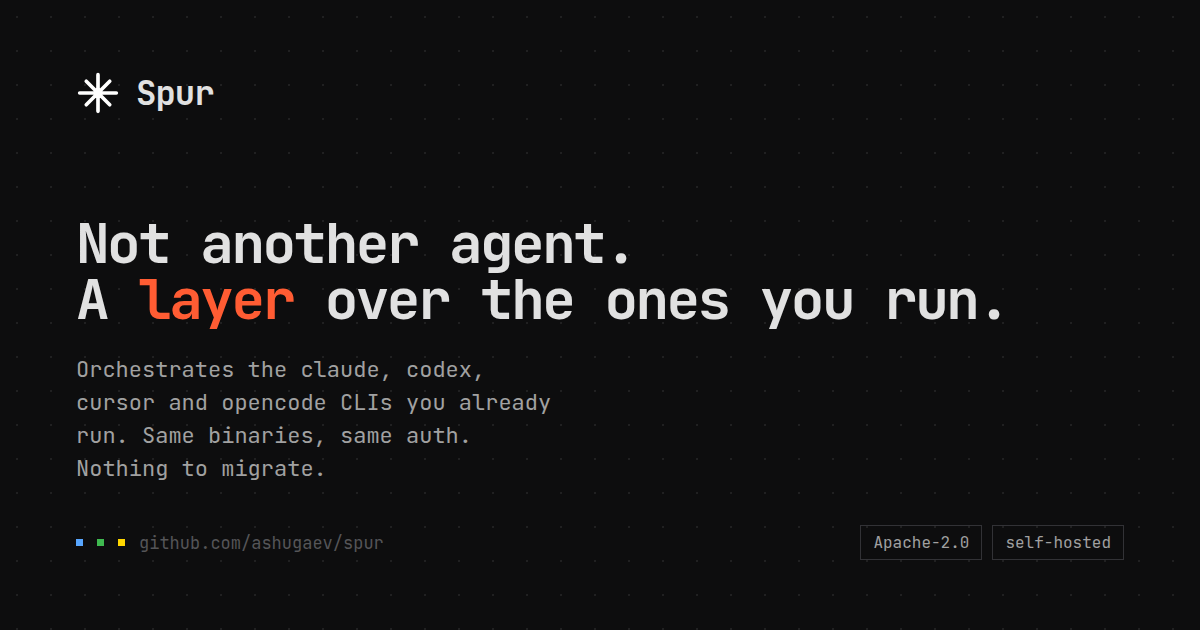
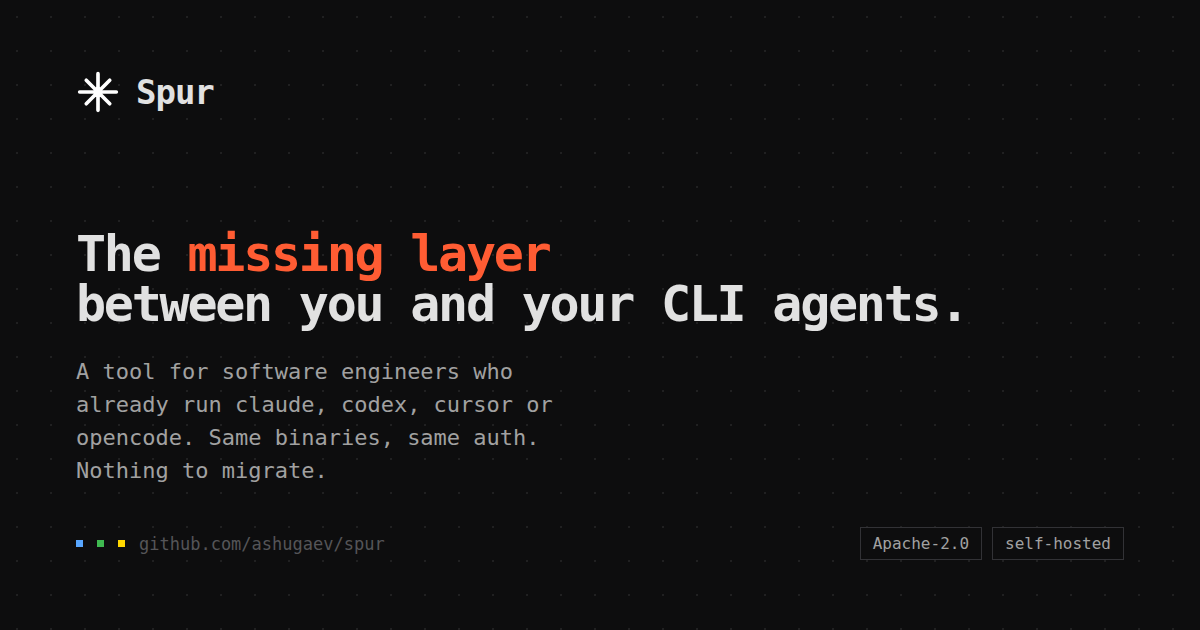
feat(landing): headline, tighter copy, prominent install prompt
Headline becomes 'The missing layer between you and your CLI agents',
with the audience named in the lede's first sentence rather than the h1.

Copy pass against a word budget: lede 40 to 23 words, section captions
to 13-17, cards to 12-21, and one FAQ answer trimmed with its JSON-LD
kept in sync.

Install prompt block rebuilt: larger mono, white on the terminal
surface, the URL in the brand colour, and a filled brand Copy prompt
button with an icon instead of the outlined chip nobody would notice.
The copy handler now writes into a label span so the icon survives the
copied state.

diff --git a/landing/index.html b/landing/index.html
@@ -4,10 +4,10 @@
     <meta charset="utf-8" />
     <meta name="viewport" content="width=device-width, initial-scale=1, viewport-fit=cover" />
     <meta name="color-scheme" content="dark" />
-    <title>Spur — orchestrator for the CLI coding agents you already run</title>
+    <title>Spur — the missing layer between you and your CLI agents</title>
     <meta
       name="description"
-      content="Open-source local daemon that orchestrates the claude, codex, cursor and opencode CLIs you already run. Same binaries, same auth. Adds a git worktree per agent, event triggers and one dashboard. Nothing to migrate."
+      content="A tool for software engineers who already run claude, codex, cursor or opencode. Spur launches the same binaries, then adds a git worktree per agent, event triggers and one dashboard you reach from any device. Nothing to migrate."
     />
     <link rel="canonical" href="https://spur.dev/" />
     <meta name="theme-color" content="#0d0d0e" />
@@ -16,10 +16,10 @@
     <meta property="og:type" content="website" />
     <meta property="og:site_name" content="Spur" />
     <meta property="og:locale" content="en_US" />
-    <meta property="og:title" content="Spur — not another agent, a layer over the ones you run" />
+    <meta property="og:title" content="Spur — the missing layer between you and your CLI agents" />
     <meta
       property="og:description"
-      content="Local daemon that orchestrates the claude, codex, cursor and opencode CLIs you already run. Same binaries, same auth, a git worktree per agent, one dashboard. Nothing to migrate."
+      content="A tool for software engineers who already run claude, codex, cursor or opencode. Same binaries, same auth, a git worktree per agent, one dashboard. Nothing to migrate."
     />
     <meta property="og:url" content="https://spur.dev/" />
     <meta property="og:image" content="https://spur.dev/og.png" />
@@ -27,13 +27,13 @@
     <meta property="og:image:height" content="630" />
     <meta
       property="og:image:alt"
-      content="Spur — not another agent, a layer over the ones you run"
+      content="Spur — the missing layer between you and your CLI agents"
     />
     <meta name="twitter:card" content="summary_large_image" />
-    <meta name="twitter:title" content="Spur — not another agent, a layer over the ones you run" />
+    <meta name="twitter:title" content="Spur — the missing layer between you and your CLI agents" />
     <meta
       name="twitter:description"
-      content="Local daemon that orchestrates the claude, codex, cursor and opencode CLIs you already run. Same binaries, same auth. Nothing to migrate."
+      content="A tool for software engineers who already run claude, codex, cursor or opencode. Same binaries, same auth. Nothing to migrate."
     />
     <meta name="twitter:image" content="https://spur.dev/og.png" />
 
@@ -115,7 +115,7 @@
                 "name": "Do I have to change how I use my agents?",
                 "acceptedAnswer": {
                   "@type": "Answer",
-                  "text": "No. Spur launches the same binary with your auth and your model config, in a real tmux pane. Anything the agent does in your terminal it does here. Stop the daemon and you are left with ordinary git worktrees."
+                  "text": "No. Same binary, your auth, your model config, in a real tmux pane. Stop the daemon and you are left with ordinary git worktrees."
                 }
               },
               {
@@ -546,18 +546,17 @@
 
       .cmd {
         margin-top: clamp(40px, 6vh, 68px);
-        position: relative;
         display: grid;
-        gap: 18px;
+        gap: 22px;
         border: 1px solid var(--b-strong);
-        border-left: 3px solid var(--brand);
+        border-left: 4px solid var(--brand);
         background: var(--term);
-        padding: 22px 24px;
+        padding: clamp(24px, 3vw, 34px);
       }
-      @media (min-width: 860px) {
+      @media (min-width: 900px) {
         .cmd {
-          grid-template-columns: 190px minmax(0, 1fr);
-          gap: 32px;
+          grid-template-columns: 220px minmax(0, 1fr);
+          gap: 40px;
           align-items: start;
         }
       }
@@ -568,38 +567,49 @@
         text-transform: uppercase;
         line-height: 1.9;
         color: var(--brand);
+        margin-bottom: 18px;
       }
       .cmd code {
         display: block;
         background: none;
-        padding: 0 66px 0 0;
-        color: var(--t1);
-        font-size: 12.5px;
-        line-height: 1.8;
+        padding: 0;
+        color: var(--t0);
+        font-size: clamp(14px, 1.2vw, 15.5px);
+        line-height: 1.85;
         overflow-wrap: break-word;
       }
+      .cmd code .u {
+        color: var(--brand);
+        overflow-wrap: anywhere;
+      }
       .copy {
-        position: absolute;
-        top: 12px;
-        right: 12px;
-        border: 1px solid var(--b);
-        background: var(--term);
-        color: var(--t2);
+        display: inline-flex;
+        align-items: center;
+        gap: 9px;
+        border: 1px solid var(--brand);
+        background: var(--brand);
+        color: #0d0d0e;
         font: inherit;
-        font-size: 10.5px;
-        letter-spacing: 0.14em;
+        font-size: 12px;
+        font-weight: 700;
+        letter-spacing: 0.12em;
         text-transform: uppercase;
-        padding: 6px 10px;
+        padding: 12px 20px;
         cursor: pointer;
-        transition: 0.2s;
+        transition: 0.18s;
+      }
+      .copy svg {
+        width: 14px;
+        height: 14px;
+        flex: none;
       }
       .copy:hover {
-        color: var(--t1);
-        border-color: var(--b-strong);
+        background: #ff7a55;
+        border-color: #ff7a55;
       }
       .copy.done {
-        color: var(--ready);
-        border-color: rgba(63, 185, 80, 0.4);
+        background: var(--ready);
+        border-color: var(--ready);
       }
 
       /* ── section frame ─────────────────────────────────────────────── */
@@ -1429,18 +1439,18 @@
           </div>
 
           <h1>
-            <span class="line"><span>Not another agent.</span></span>
             <span class="line"
-              ><span>A <em>layer</em> over the ones you run.</span></span
+              ><span>The <em>missing layer</em></span></span
             >
+            <span class="line"><span>between you and your CLI agents.</span></span>
           </h1>
 
           <div class="hero-grid">
             <div>
               <p class="lede">
-                Spur launches <b>claude</b>, <b>codex</b>, <b>cursor</b> and <b>opencode</b> exactly
-                as they ship, then gives them what a terminal cannot: a git worktree each, event
-                triggers, and one dashboard you reach from any device. Nothing to migrate.
+                For engineers already running <b>claude</b>, <b>codex</b>, <b>cursor</b> or
+                <b>opencode</b>. Same binaries, plus a worktree each, event triggers and one
+                dashboard. Nothing to migrate.
               </p>
 
               <div class="hero-cta">
@@ -1457,26 +1467,40 @@
             <div>
               <span class="mono-label">What it does not change</span>
               <ul class="reach">
-                <li><i class="c-brand"></i>The same binaries you already type</li>
+                <li><i class="c-brand"></i>Same binaries you already type</li>
                 <li><i class="c-working"></i>Your auth, your keys, your model config</li>
-                <li><i class="c-ready"></i>Sessions are plain tmux and git worktrees</li>
-                <li>
-                  <i class="c-attention"></i>One repo at a time. The rest of the box is untouched
-                </li>
+                <li><i class="c-ready"></i>Plain tmux and git worktrees</li>
+                <li><i class="c-attention"></i>One repo at a time. Rest of the box untouched</li>
               </ul>
             </div>
           </div>
 
           <div class="cmd">
-            <span class="cmd-tag">Install prompt<br />paste into your agent</span>
+            <div>
+              <span class="cmd-tag">Install prompt<br />paste into your agent</span>
+              <button class="copy" data-copy="#installcmd" aria-label="Copy the install prompt">
+                <svg
+                  viewBox="0 0 24 24"
+                  fill="none"
+                  stroke="currentColor"
+                  stroke-width="2"
+                  aria-hidden="true"
+                  focusable="false"
+                >
+                  <rect x="9" y="9" width="12" height="12" />
+                  <path d="M5 15H4a1 1 0 01-1-1V4a1 1 0 011-1h10a1 1 0 011 1v1" />
+                </svg>
+                <span class="copy-t">Copy prompt</span>
+              </button>
+            </div>
             <code id="installcmd"
-              >Read https://raw.githubusercontent.com/ashugaev/spur/main/docs/install-from-npm.md
+              >Read
+              <span class="u"
+                >https://raw.githubusercontent.com/ashugaev/spur/main/docs/install-from-npm.md</span
+              >
               and install and run Spur on this machine end to end, following the guide. Do the steps
               yourself; don't ask me to run what you can run.</code
             >
-            <button class="copy" data-copy="#installcmd" aria-label="Copy the install prompt">
-              copy
-            </button>
           </div>
         </header>
 
@@ -1485,8 +1509,8 @@
             <span class="mono-label">How you reach them</span>
             <h2 id="architecture-h">Your box holds the agents. Your tailnet is the door.</h2>
             <p>
-              The agents never stop when you walk away. They live in tmux on a machine you own, and
-              every device you carry attaches to the same running session.
+              Agents live in tmux on a machine you own. Every device attaches to the same running
+              session.
             </p>
           </div>
 
@@ -1574,8 +1598,7 @@
             </svg>
 
             <p class="arch-note">
-              Nothing binds to a public interface. The tailnet is the only way in, and the agents
-              keep running between visits.
+              Nothing binds to a public interface. The tailnet is the only way in.
             </p>
           </div>
         </section>
@@ -1584,10 +1607,7 @@
           <div class="sec-head rv" data-n="02">
             <span class="mono-label">Control surface</span>
             <h2 id="dashboard-h">One list. Every agent. Live.</h2>
-            <p>
-              State, branch and PR per session. Tap one, get the tmux pane itself — scrollback,
-              keys, clickable links.
-            </p>
+            <p>State, branch and PR per session. Tap one, get the tmux pane itself.</p>
           </div>
 
           <div class="mock rv">
@@ -1690,10 +1710,7 @@
           <div class="wf rv">
             <div class="wf-head">
               <span class="mono-label">One ticket, start to merge</span>
-              <p>
-                Each hop is a real event Spur already listens for. The agent keeps the same session,
-                the same worktree and the same branch the whole way down.
-              </p>
+              <p>Every hop is a real event. Same session, same worktree, same branch throughout.</p>
             </div>
 
             <svg viewBox="0 0 960 300" role="img" aria-labelledby="wf-title wf-desc">
@@ -1818,7 +1835,7 @@
               <h3>Nothing dies with your shell</h3>
               <p>
                 The daemon owns the tmux sessions. Close the lid, drop SSH, reboot — they come back
-                with their transcript.
+                with the transcript.
               </p>
             </article>
             <article class="cell">
@@ -1836,8 +1853,8 @@
               </svg>
               <h3>Telegram &amp; voice</h3>
               <p>
-                Bind a chat or forum topic with <code>/watch</code>, then talk to the agent from
-                your phone. Voice notes transcribe once you set a provider key.
+                Bind a chat or topic with <code>/watch</code>, talk to the agent from your phone.
+                Voice notes transcribe with a provider key.
               </p>
             </article>
             <article class="cell">
@@ -1854,8 +1871,8 @@
               </svg>
               <h3>Your CLIs, unchanged</h3>
               <p>
-                Spur launches the same binary you type, with your auth and your model config. One
-                spawn, wake and send across all four.
+                Same binary you type, your auth, your model config. One spawn, wake and send across
+                all four.
               </p>
             </article>
             <article class="cell">
@@ -1931,7 +1948,7 @@
               <h3>Never leaves your machine</h3>
               <p>
                 Daemon binds to loopback. <code>spur init</code> opens it to your tailnet, nothing
-                else. Your hardware, your agent subscriptions, no seats.
+                else. Your hardware, your subscriptions.
               </p>
             </article>
           </div>
@@ -1979,8 +1996,7 @@
             <details>
               <summary>Do I have to change how I use my agents?<span class="pm">+</span></summary>
               <div class="ans">
-                No. Spur launches the same binary with your auth and your model config, in a real
-                tmux pane. Anything the agent does in your terminal it does here. Stop the daemon
+                No. Same binary, your auth, your model config, in a real tmux pane. Stop the daemon
                 and you are left with ordinary git worktrees.
               </div>
             </details>
@@ -2028,8 +2044,8 @@
           <div class="endcta rv">
             <h2>Stop babysitting one terminal.</h2>
             <p>
-              Hand the install prompt to a coding agent and let it do the whole thing. Tested on
-              Ubuntu; elsewhere expect to sort out host differences.
+              Hand the prompt to a coding agent. Tested on Ubuntu; elsewhere expect host
+              differences.
             </p>
             <div style="display: flex; gap: 12px; justify-content: center; flex-wrap: wrap">
               <a class="btn primary" href="https://github.com/ashugaev/spur#install" rel="noopener"
@@ -2109,17 +2125,22 @@
                   })
                   .join("\n")
               : target.textContent.replace(/\s+/g, " ").trim();
+            var label = btn.querySelector(".copy-t") || btn;
+            var idle = label.textContent;
+            function say(word) {
+              label.textContent = word;
+            }
             function ok() {
-              btn.textContent = "copied";
+              say("Copied");
               btn.classList.add("done");
               btn.setAttribute("aria-live", "polite");
               setTimeout(function () {
-                btn.textContent = "copy";
+                say(idle);
                 btn.classList.remove("done");
               }, 1600);
             }
             function fail() {
-              btn.textContent = "select it";
+              say("Select it");
             }
             if (navigator.clipboard && isSecureContext) {
               navigator.clipboard.writeText(text).then(ok, fail);

diff --git a/landing/og.html b/landing/og.html
@@ -52,7 +52,7 @@
       }
       h1 {
         margin-top: auto;
-        font-size: 56px;
+        font-size: 50px;
         font-weight: 700;
         letter-spacing: -0.045em;
         line-height: 1;
@@ -118,10 +118,10 @@
         </svg>
         <span class="nm">Spur</span>
       </div>
-      <h1>Not another agent.<br />A <em>layer</em> over the ones you run.</h1>
+      <h1>The <em>missing layer</em><br />between you and your CLI agents.</h1>
       <p>
-        Orchestrates the claude, codex, cursor and opencode CLIs you already run. Same binaries,
-        same auth. Nothing to migrate.
+        A tool for software engineers who already run claude, codex, cursor or opencode. Same
+        binaries, same auth. Nothing to migrate.
       </p>
       <div class="foot">
         <i class="w"></i><i class="r"></i><i class="a"></i>
